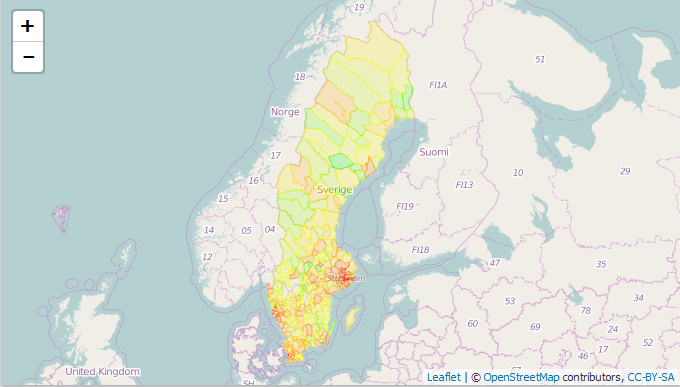
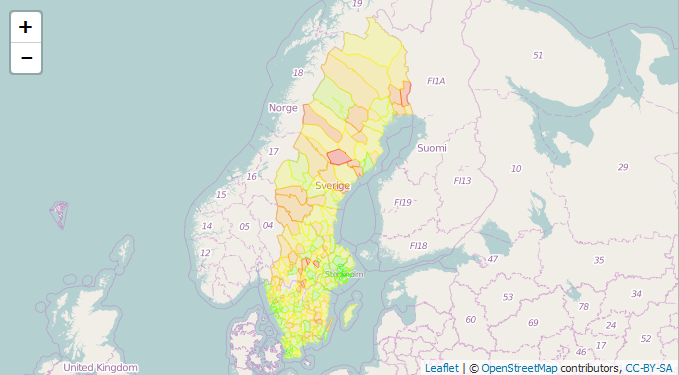
Inverted color scale in example

diff --git a/README.md b/README.md
@@ -83,7 +83,7 @@ library(plotrix)
 x <- a$values('N01963', year = 2010)
 x <- subset(x, gender == 'T')
 x <- prepare_map_data(x)
-x$color <- substring(color.scale(x$value, c(0,1,1), c(1,1,0), 0), 1, 7)
+x$color <- substring(color.scale(x$value, c(1,1,0), c(0,1,1), 0), 1, 7)
 
 m <- leaflet() %>% addTiles()
 for (kn in unique(x$knkod)) {
